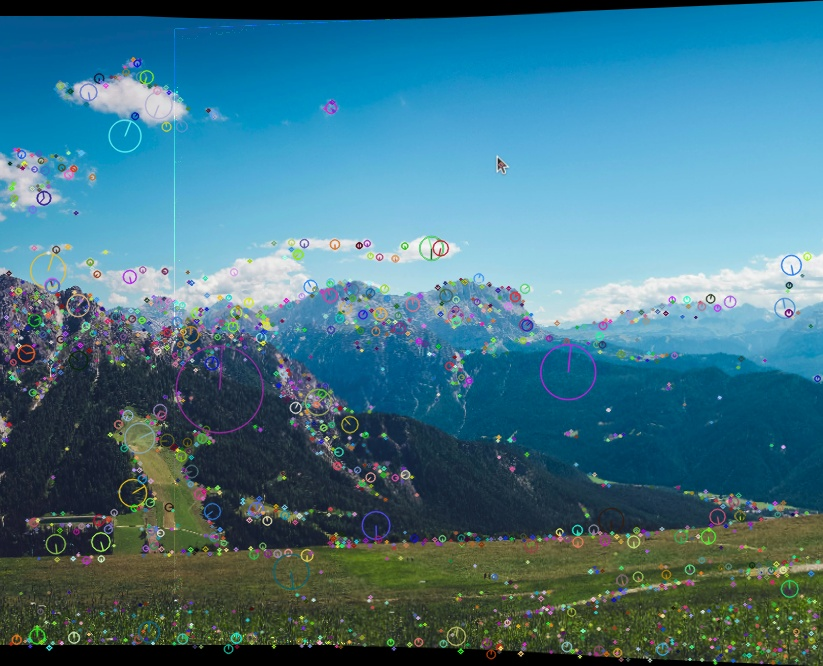
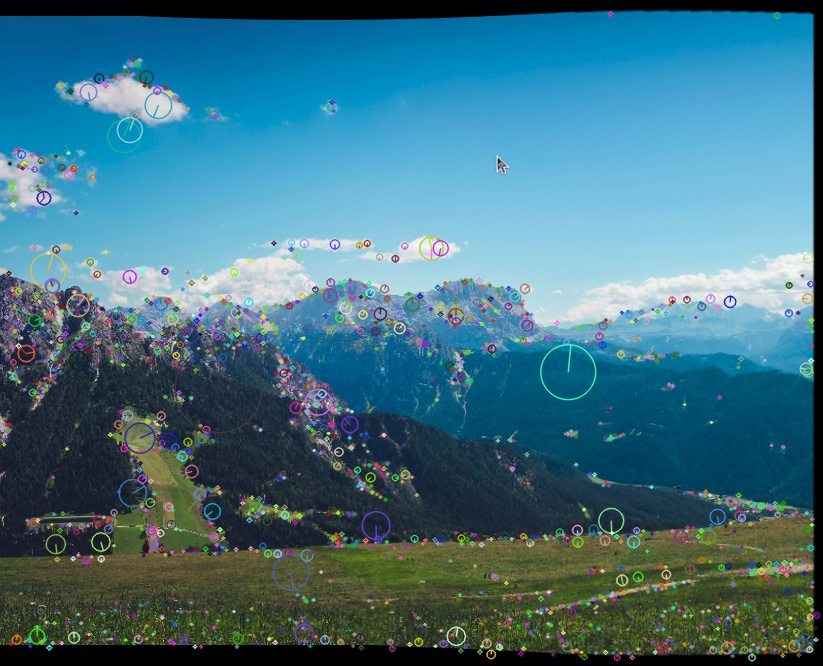
update for blending

diff --git a/image_stitching.py b/image_stitching.py
@@ -90,28 +90,96 @@ class ImageStitcher:
         transformed_img = cv2.remap(img, map_x, map_y, interpolation=cv2.INTER_LINEAR)
         return transformed_img, np.array(mask_x), np.array(mask_y)
 
-    def stitch_images(self, base_image, sec_image):
-        """
-        Stitches two images together using cylindrical projection and homography.
-        """
-        sec_image_cyl, mask_x, mask_y = self.cylindrical_projection(sec_image)
-        sec_mask = np.zeros(sec_image_cyl.shape, dtype=np.uint8)
-        sec_mask[mask_y, mask_x, :] = 255
+    def stitch_images(self,BaseImage, SecImage):
+        
+        # Applying Cylindrical projection on SecImage
+        SecImage_Cyl, mask_x, mask_y = self.cylindrical_projection(SecImage)
 
-        matches, base_kp, sec_kp = self.find_matches(base_image, sec_image_cyl)
-        homography_matrix = self.find_homography(matches, base_kp, sec_kp)
-        new_size, correction, homography_matrix = self.get_new_frame_size_and_matrix(homography_matrix, sec_image_cyl.shape[:2], base_image.shape[:2])
+        # Getting SecImage Mask
+        SecImage_Mask = np.zeros(SecImage_Cyl.shape, dtype=np.uint8)
+        SecImage_Mask[mask_y, mask_x, :] = 255
 
-        sec_transformed = cv2.warpPerspective(sec_image_cyl, homography_matrix, (new_size[1], new_size[0]))
-        sec_mask_transformed = cv2.warpPerspective(sec_mask, homography_matrix, (new_size[1], new_size[0]))
+        # Finding matches between the 2 images and their keypoints
+        Matches, BaseImage_kp, SecImage_kp = self.find_matches(BaseImage, SecImage_Cyl)
 
-        base_transformed = np.zeros((new_size[0], new_size[1], 3), dtype=np.uint8)
-        base_transformed[correction[1]:correction[1]+base_image.shape[0], correction[0]:correction[0]+base_image.shape[1]] = base_image
+        # Finding homography matrix.
+        HomographyMatrix = self.find_homography(Matches, BaseImage_kp, SecImage_kp)
 
-        stitched_image = cv2.bitwise_or(sec_transformed, cv2.bitwise_and(base_transformed, cv2.bitwise_not(sec_mask_transformed)))
+        # Finding size of new frame of stitched images and updating the homography matrix
+        NewFrameSize, Correction, HomographyMatrix = self.get_new_frame_size_and_matrix(HomographyMatrix, SecImage_Cyl.shape[:2], BaseImage.shape[:2])
 
-        cv2.imwrite("output/panaroma_stitchedImage.jpg", stitched_image)
-        return stitched_image
+        # Transform images to the new coordinate frame
+        SecImage_Transformed = cv2.warpPerspective(SecImage_Cyl, HomographyMatrix, (NewFrameSize[1], NewFrameSize[0]))
+        SecImage_Transformed_Mask = cv2.warpPerspective(SecImage_Mask, HomographyMatrix, (NewFrameSize[1], NewFrameSize[0]))
+
+        #     # Ensure the mask is smooth (float values between 0 and 1)
+        # SecImage_Transformed_Mask = cv2.GaussianBlur(SecImage_Transformed_Mask, (21, 21), sigmaX=10, sigmaY=10)
+
+        # # Convert mask to 3 channels for blending (if images are colored)
+        # SecImage_Transformed_Mask = cv2.merge([SecImage_Transformed_Mask] * 3)
+
+        # # Blend images smoothly instead of bitwise operations
+
+        
+        # # plt.imshow(cv2.cvtColor(SecImage_Transformed,cv2.COLOR_BGR2RGB))
+        # # plt.show()
+        # # plt.imshow(cv2.cvtColor(SecImage_Transformed_Mask,cv2.COLOR_BGR2RGB))
+        # # plt.show()
+        # BaseImage_Transformed = np.zeros((NewFrameSize[0], NewFrameSize[1], 3), dtype=np.uint8)
+        # BaseImage_Transformed[Correction[1]:Correction[1]+BaseImage.shape[0], Correction[0]:Correction[0]+BaseImage.shape[1]] = BaseImage
+
+        # _, BinaryMask = cv2.threshold(SecImage_Transformed_Mask, 1, 255, cv2.THRESH_BINARY)
+
+        # # Define center for blending
+        # center = (NewFrameSize[1] // 2, NewFrameSize[0] // 2)
+
+        # StitchedImage = (SecImage_Transformed * SecImage_Transformed_Mask) + (BaseImage_Transformed * (1 - SecImage_Transformed_Mask))
+        # StitchedImage = StitchedImage.astype(np.uint8)
+
+        #StitchedImage = cv2.bitwise_or(SecImage_Transformed, cv2.bitwise_and(BaseImage_Transformed, cv2.bitwise_not(SecImage_Transformed_Mask)))
+
+        # # Apply Poisson blending
+        # #StitchedImage = feather_blend(SecImage_Transformed, BaseImage_Transformed, BinaryMask)
+
+        # return StitchedImage
+
+        #SecImage_Transformed = cv2.warpPerspective(SecImage_Cyl, HomographyMatrix, (NewFrameSize[1], NewFrameSize[0]))
+        #SecImage_Transformed_Mask = cv2.warpPerspective(SecImage_Mask, HomographyMatrix, (NewFrameSize[1], NewFrameSize[0]))
+
+        # Smoothen the mask
+        SecImage_Transformed_Mask = cv2.GaussianBlur(SecImage_Transformed_Mask, (3, 3), sigmaX=0, sigmaY=0)
+
+        # Normalize the mask (important!)
+        SecImage_Transformed_Mask = SecImage_Transformed_Mask.astype(np.float32) / 255.0
+
+        # Convert to 3 channels if necessary
+        #if len(SecImage_Transformed_Mask.shape) == 2:
+        #    SecImage_Transformed_Mask = cv2.merge([SecImage_Transformed_Mask] * 3)
+
+        # Initialize the base image with black background
+        BaseImage_Transformed = np.zeros((NewFrameSize[0], NewFrameSize[1], 3), dtype=np.uint8)
+        BaseImage_Transformed[Correction[1]:Correction[1]+BaseImage.shape[0], Correction[0]:Correction[0]+BaseImage.shape[1]] = BaseImage
+
+        # Blending images smoothly using weighted sum
+        alpha = SecImage_Transformed_Mask
+        beta = 1 - alpha
+        StitchedImage = (SecImage_Transformed * alpha) + (BaseImage_Transformed * beta)
+        StitchedImage = np.clip(StitchedImage, 0, 255).astype(np.uint8)
+
+        #     # Convert stitched image to grayscale
+        # gray = cv2.cvtColor(StitchedImage, cv2.COLOR_BGR2GRAY)
+
+        # # Create mask for dark regions (thresholding)
+        # _, mask = cv2.threshold(gray, 25, 255, cv2.THRESH_BINARY_INV)  # Pixels close to black
+
+        # # Inpaint black regions using surrounding pixels
+        # StitchedImage = cv2.inpaint(StitchedImage, mask, inpaintRadius=20, flags=cv2.INPAINT_TELEA)
+
+
+        #StitchedImage = cv2.GaussianBlur(StitchedImage, (7, 7), sigmaX=0, sigmaY=0)
+
+
+        return StitchedImage
 
 if __name__ == "__main__":
 
